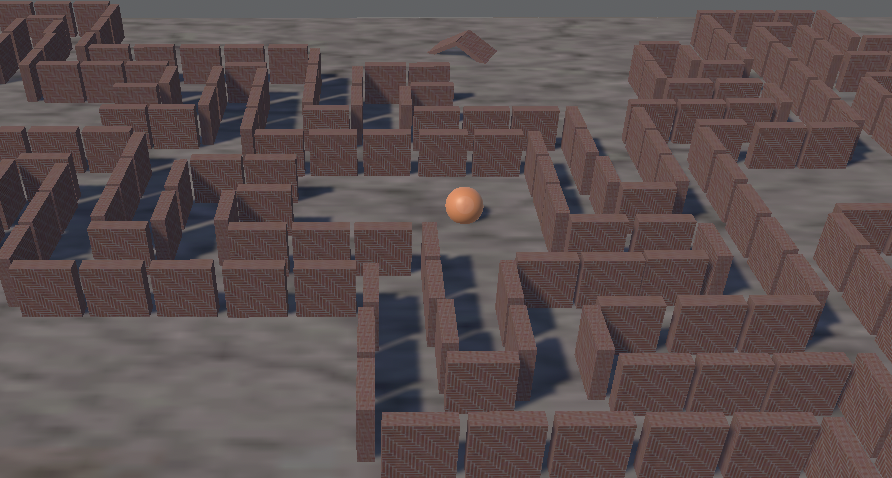
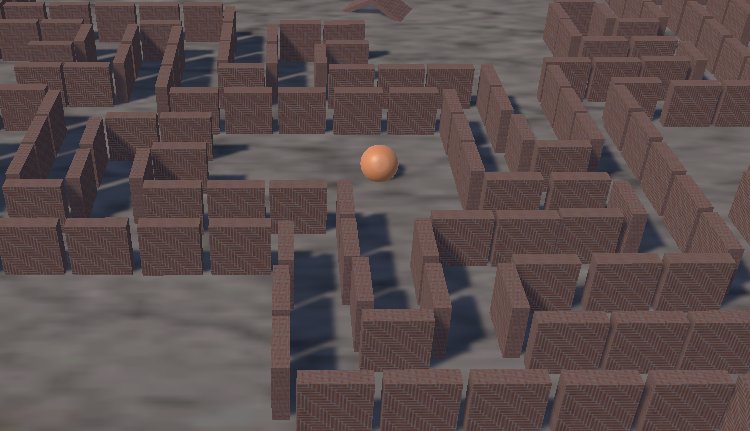
add new project

diff --git a/src/data/content.jsx b/src/data/content.jsx
@@ -7,13 +7,23 @@ import {
 } from "@mui/icons-material";
 import fallingBallImage from "../../images/FallingBallThumbnail.png";
 import mazeExploreImage from "../../images/MazeExploreThumbnail.png";
+import seashellSelectionsImage from "../../images/seashellSelectionsThumbnail.png";
+import choiceArciveImage from "../../images/ChoiceArchiveThumbnail.png";
 
 export const projects = [
+  {
+    name: "Interactive UI",
+    description: "A web application that allows users to explore a variety of interactive UI components whos data is fetched from open-source data APIs.",
+    category: "Web Development",
+    image: choiceArciveImage,
+    imageAlt: "Interactive UI project thumbnail",
+    url: "https://lashell-young.github.io/choice-archive",
+  },
   {
     name: "Entertainment Catalog",
     description: "A web application that allows users to browse and search a select list of entertainment options (movies, TV shows, and fun activities).",
     category: "Web Development",
-    image: null,
+    image: seashellSelectionsImage,
     imageAlt: "Entertainment Catalog project thumbnail",
     url: "https://lashell-young.github.io/seashell-selections-fe"
   },

diff --git a/src/components/HomePage.jsx b/src/components/HomePage.jsx
@@ -83,7 +83,7 @@ export default function HomePage() {
           <Box className="portrait-caption">
             <Typography fontWeight={700}>LaShell Young</Typography>
             <Typography variant="body2" color="text.secondary">
-              Developer in progress
+              Software Developer | Full-stack Engineer
             </Typography>
           </Box>
         </Box>
